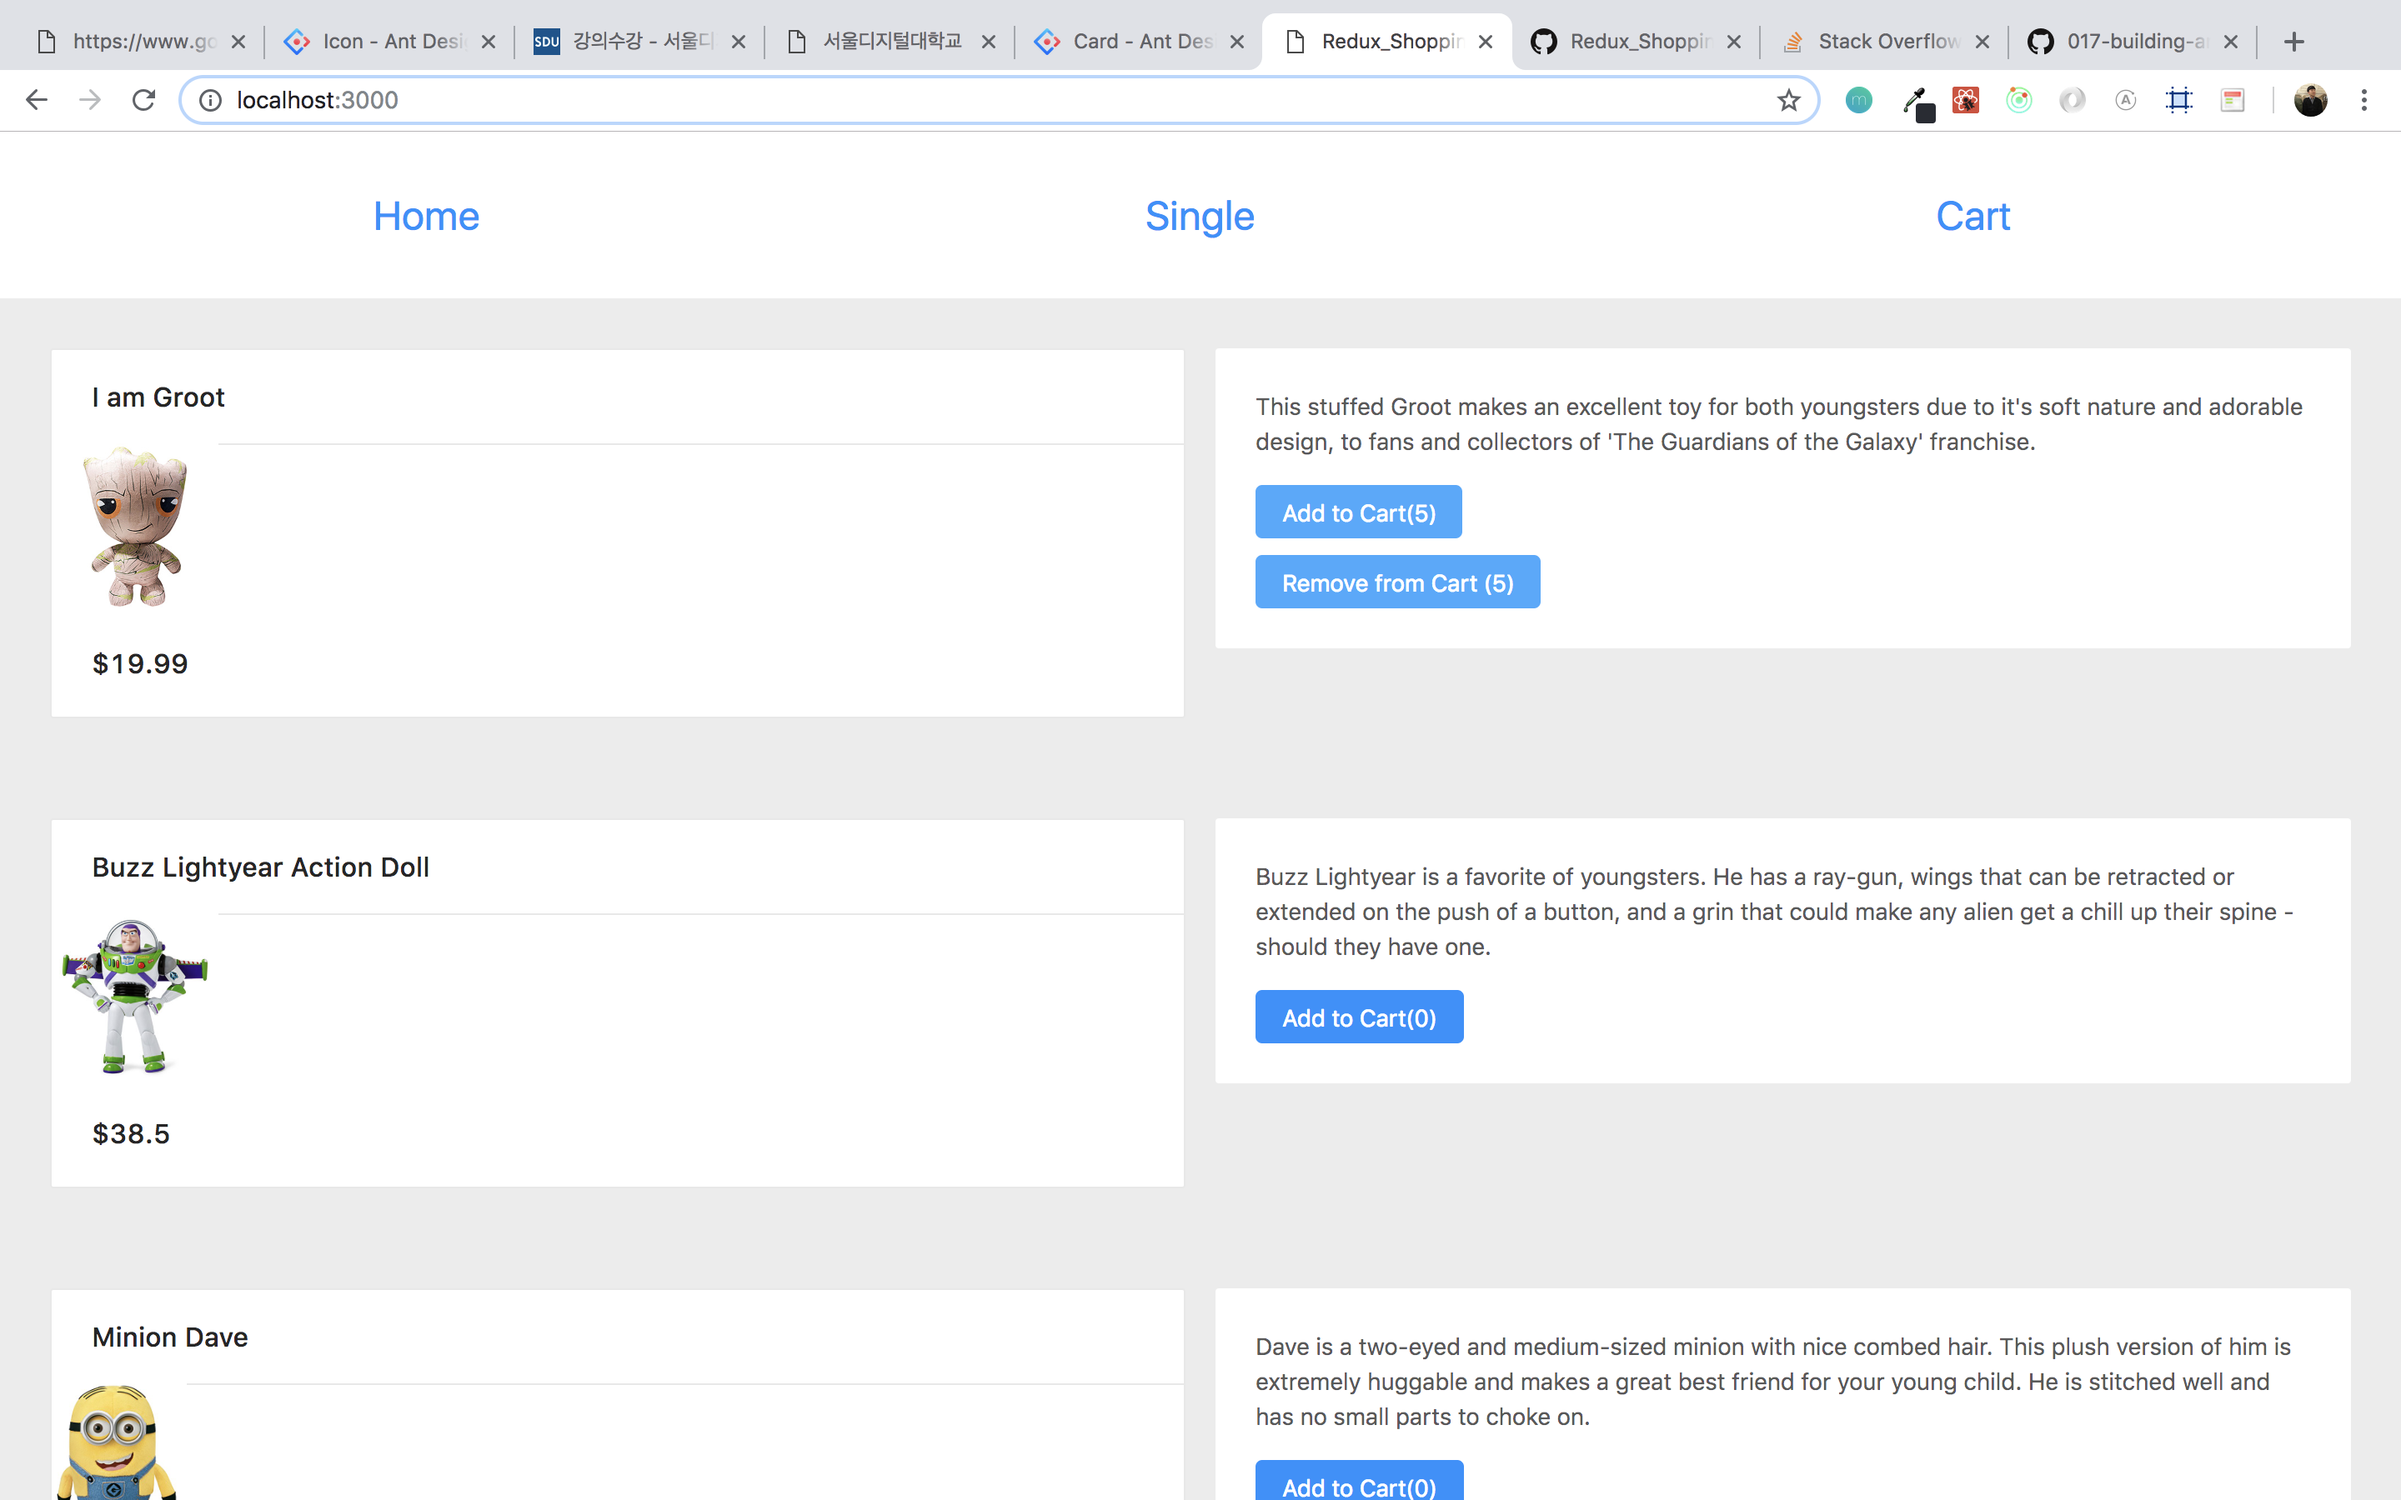
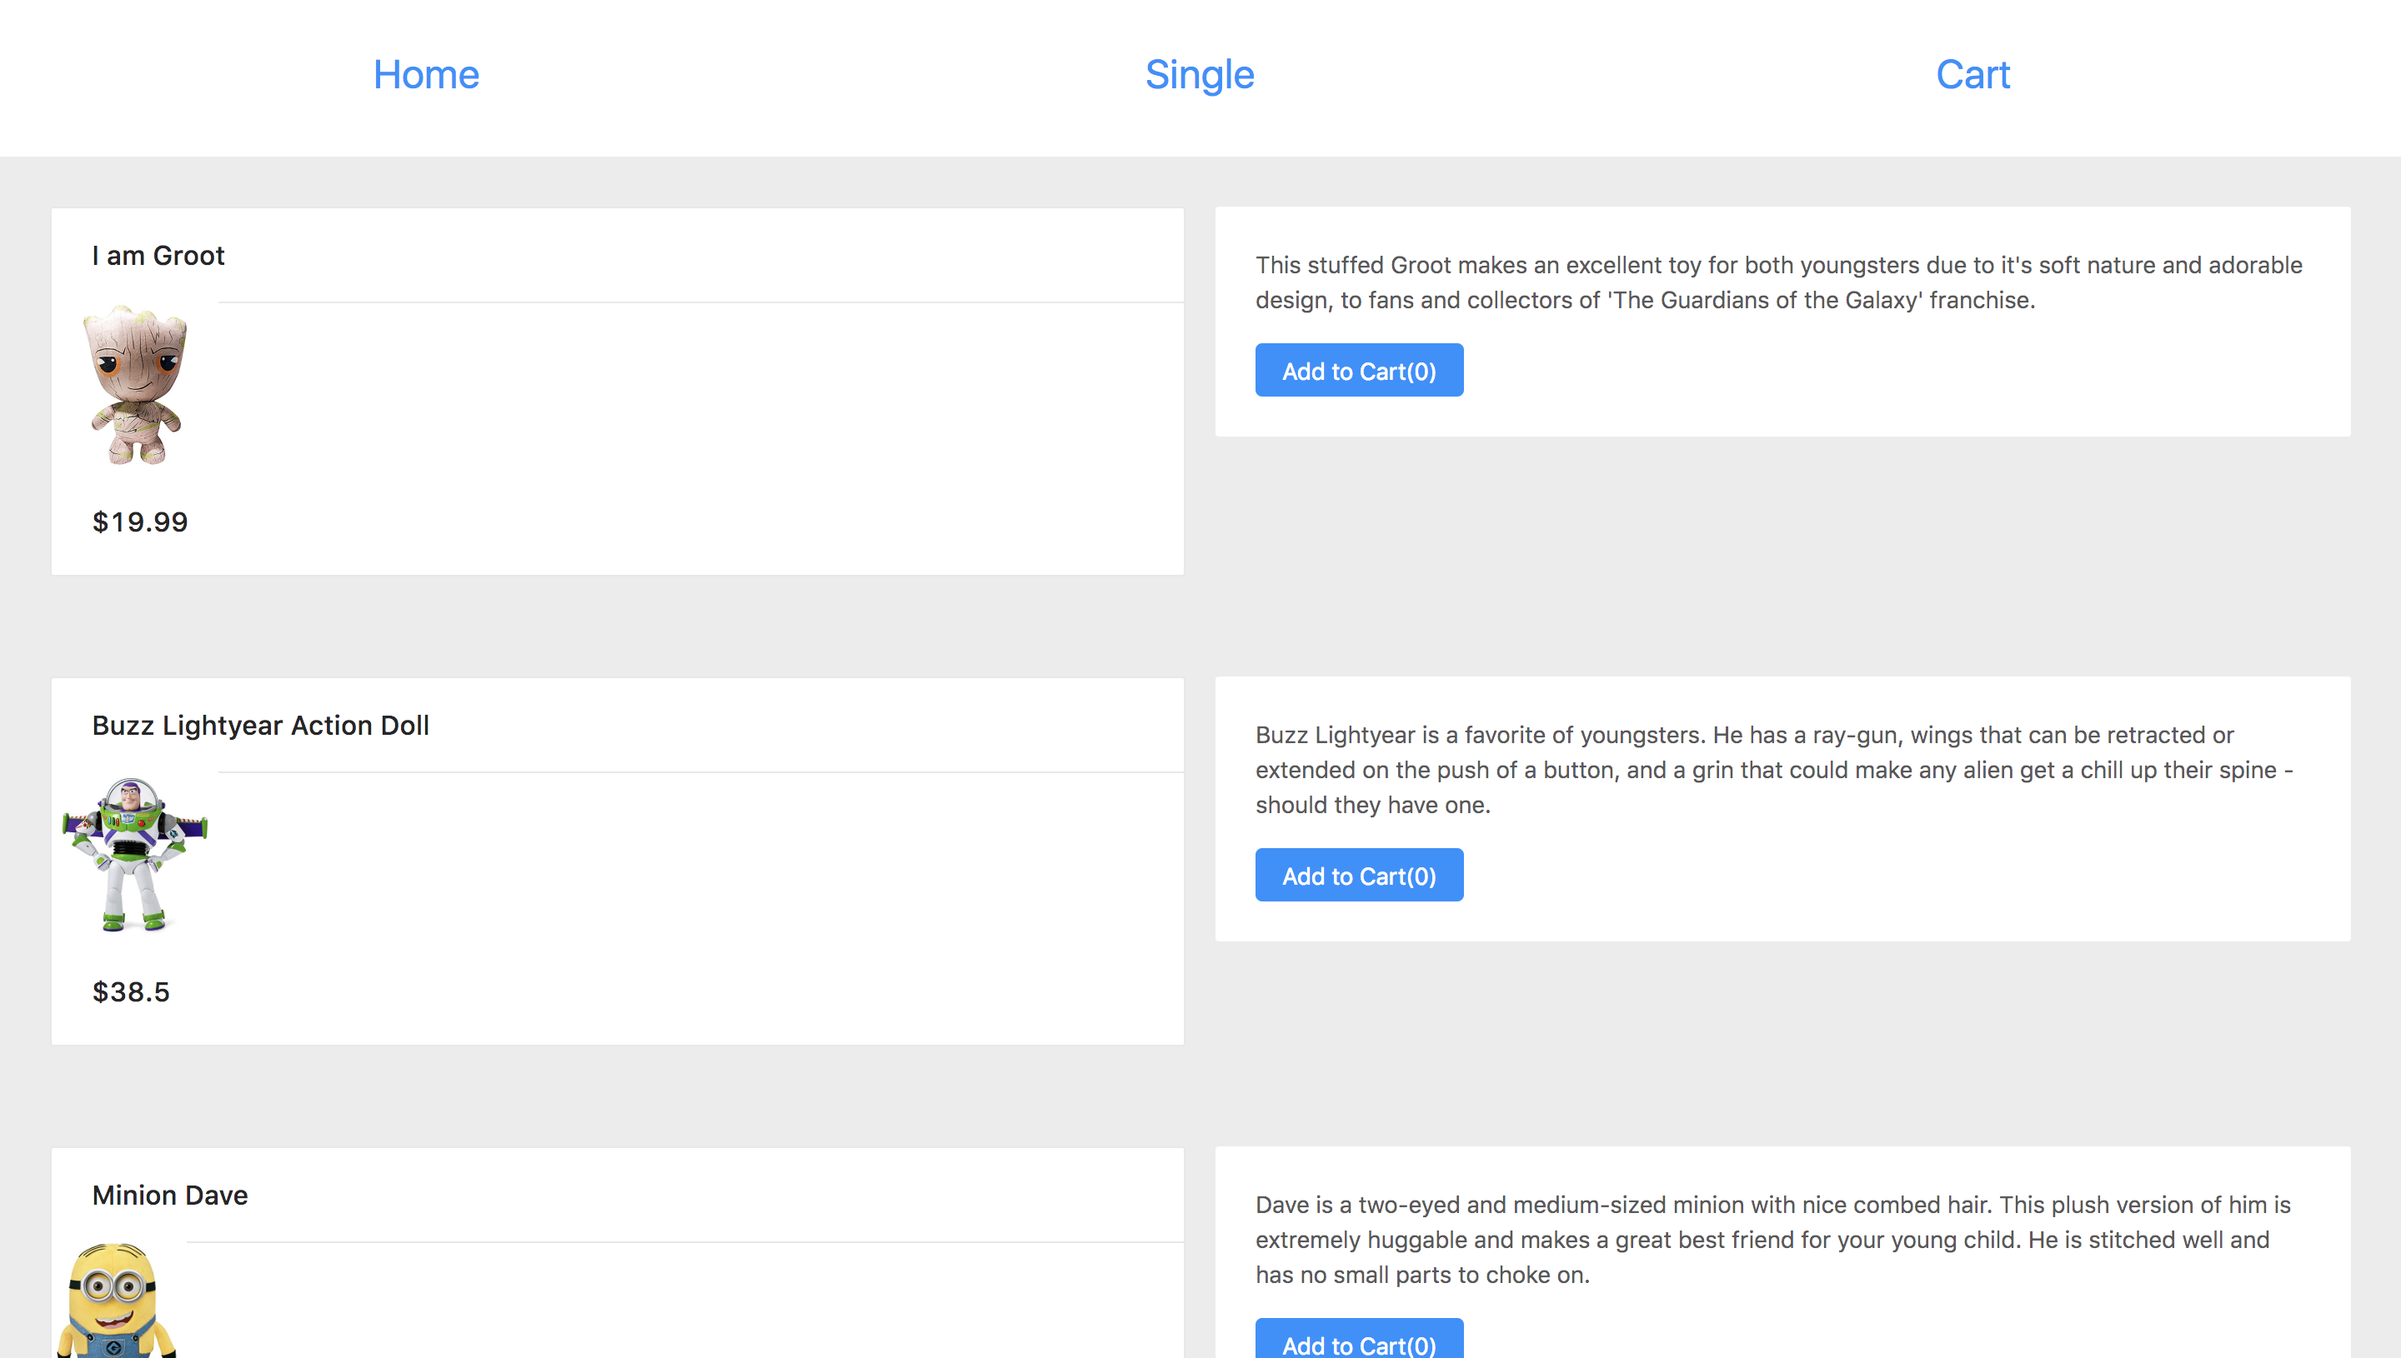
modify the screenshot

diff --git a/README.md b/README.md
@@ -3,5 +3,5 @@
 #### React  Redux  Antd  Json_file
 
 ![ShoppingCart Web ScreenShot](/assets/Home.png?raw=true "Optional Title")
-![ShoppingCart Web ScreenShot](/assets/AddingHome.png?raw=true "Optional Title")
+![ShoppingCart Web ScreenShot](/assets/Home1.png?raw=true "Optional Title")
 ![ShoppingCart Web ScreenShot](/assets/Cart.png?raw=true "Optional Title")
